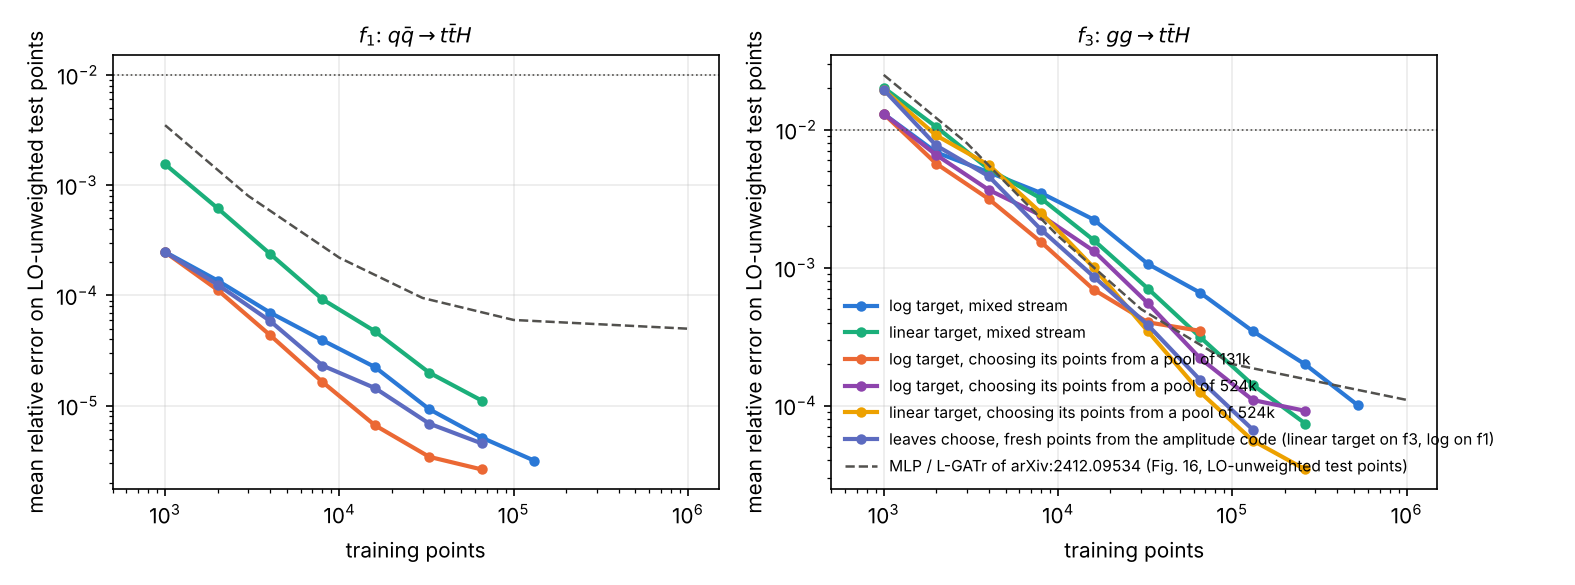
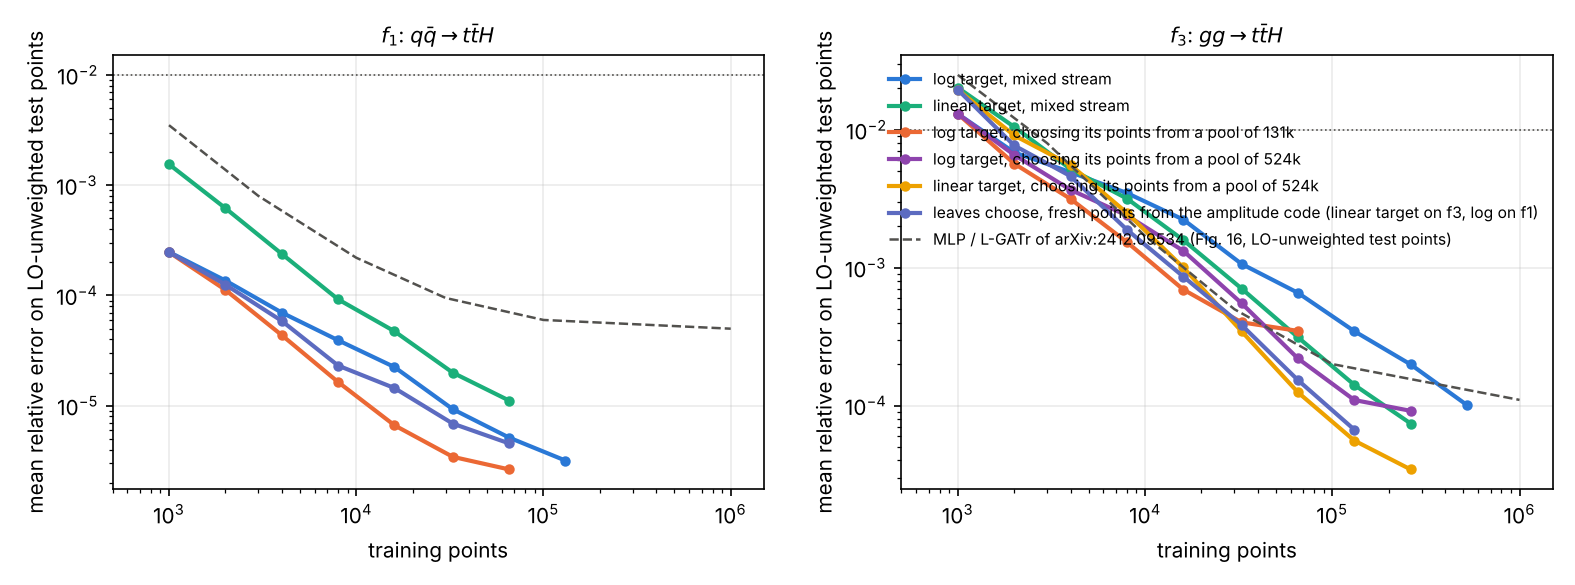
Move the legend of the targets figure clear of the curves
Claude-Session: https://claude.ai/code/session_0153hpVKJ5JPDq5CRhfaL7QL

diff --git a/examples/plot_tth_results.py b/examples/plot_tth_results.py
@@ -30,6 +30,7 @@ REFERENCE = {"uu": [(1000, 3.5e-3), (3000, 8e-4), (1e4, 2.2e-4), (3e4, 9.5e-5), 
 METRIC = {"eps_vs_points_paper_weights.png": ("eps_unweighted", r"mean relative error on LO-unweighted test points"),
           "eps_vs_points_targets.png": ("eps_unweighted", r"mean relative error on LO-unweighted test points")}
 XLIM = {"eps_vs_points_targets.png": (500, 1.5e6)}
+LEGEND_LOC = {"eps_vs_points_targets.png": "upper right"}
 DEFAULT_METRIC = ("eps_uniform", r"$\epsilon = \sum|\tilde f - f| \,/\, \sum f$ (uniform test points)")
 COLORS = ["#2a78d6", "#1baf7a", "#eb6834", "#8e44ad", "#eda100", "#5c6bc0", "#00897b"]
 
@@ -95,7 +96,7 @@ for name, series in FIGURES.items():
         ax.set_xscale("log"); ax.set_yscale("log"); ax.set_xlim(*XLIM.get(name, (500, 2e5)))
         ax.set_xlabel("training points"); ax.set_ylabel(ylabel)
         ax.set_title(NAMES[ch], fontsize=10); ax.grid(alpha=0.25)
-    axes[0 if plotted[0] >= plotted[1] else 1].legend(frameon=False, fontsize=7.5, loc="lower left")
+    axes[0 if plotted[0] >= plotted[1] else 1].legend(frameon=False, fontsize=7.5, loc=LEGEND_LOC.get(name, "lower left"))
     fig.tight_layout()
     fig.savefig(os.path.join(OUT_DIR, name), dpi=150)
     plt.close(fig)
